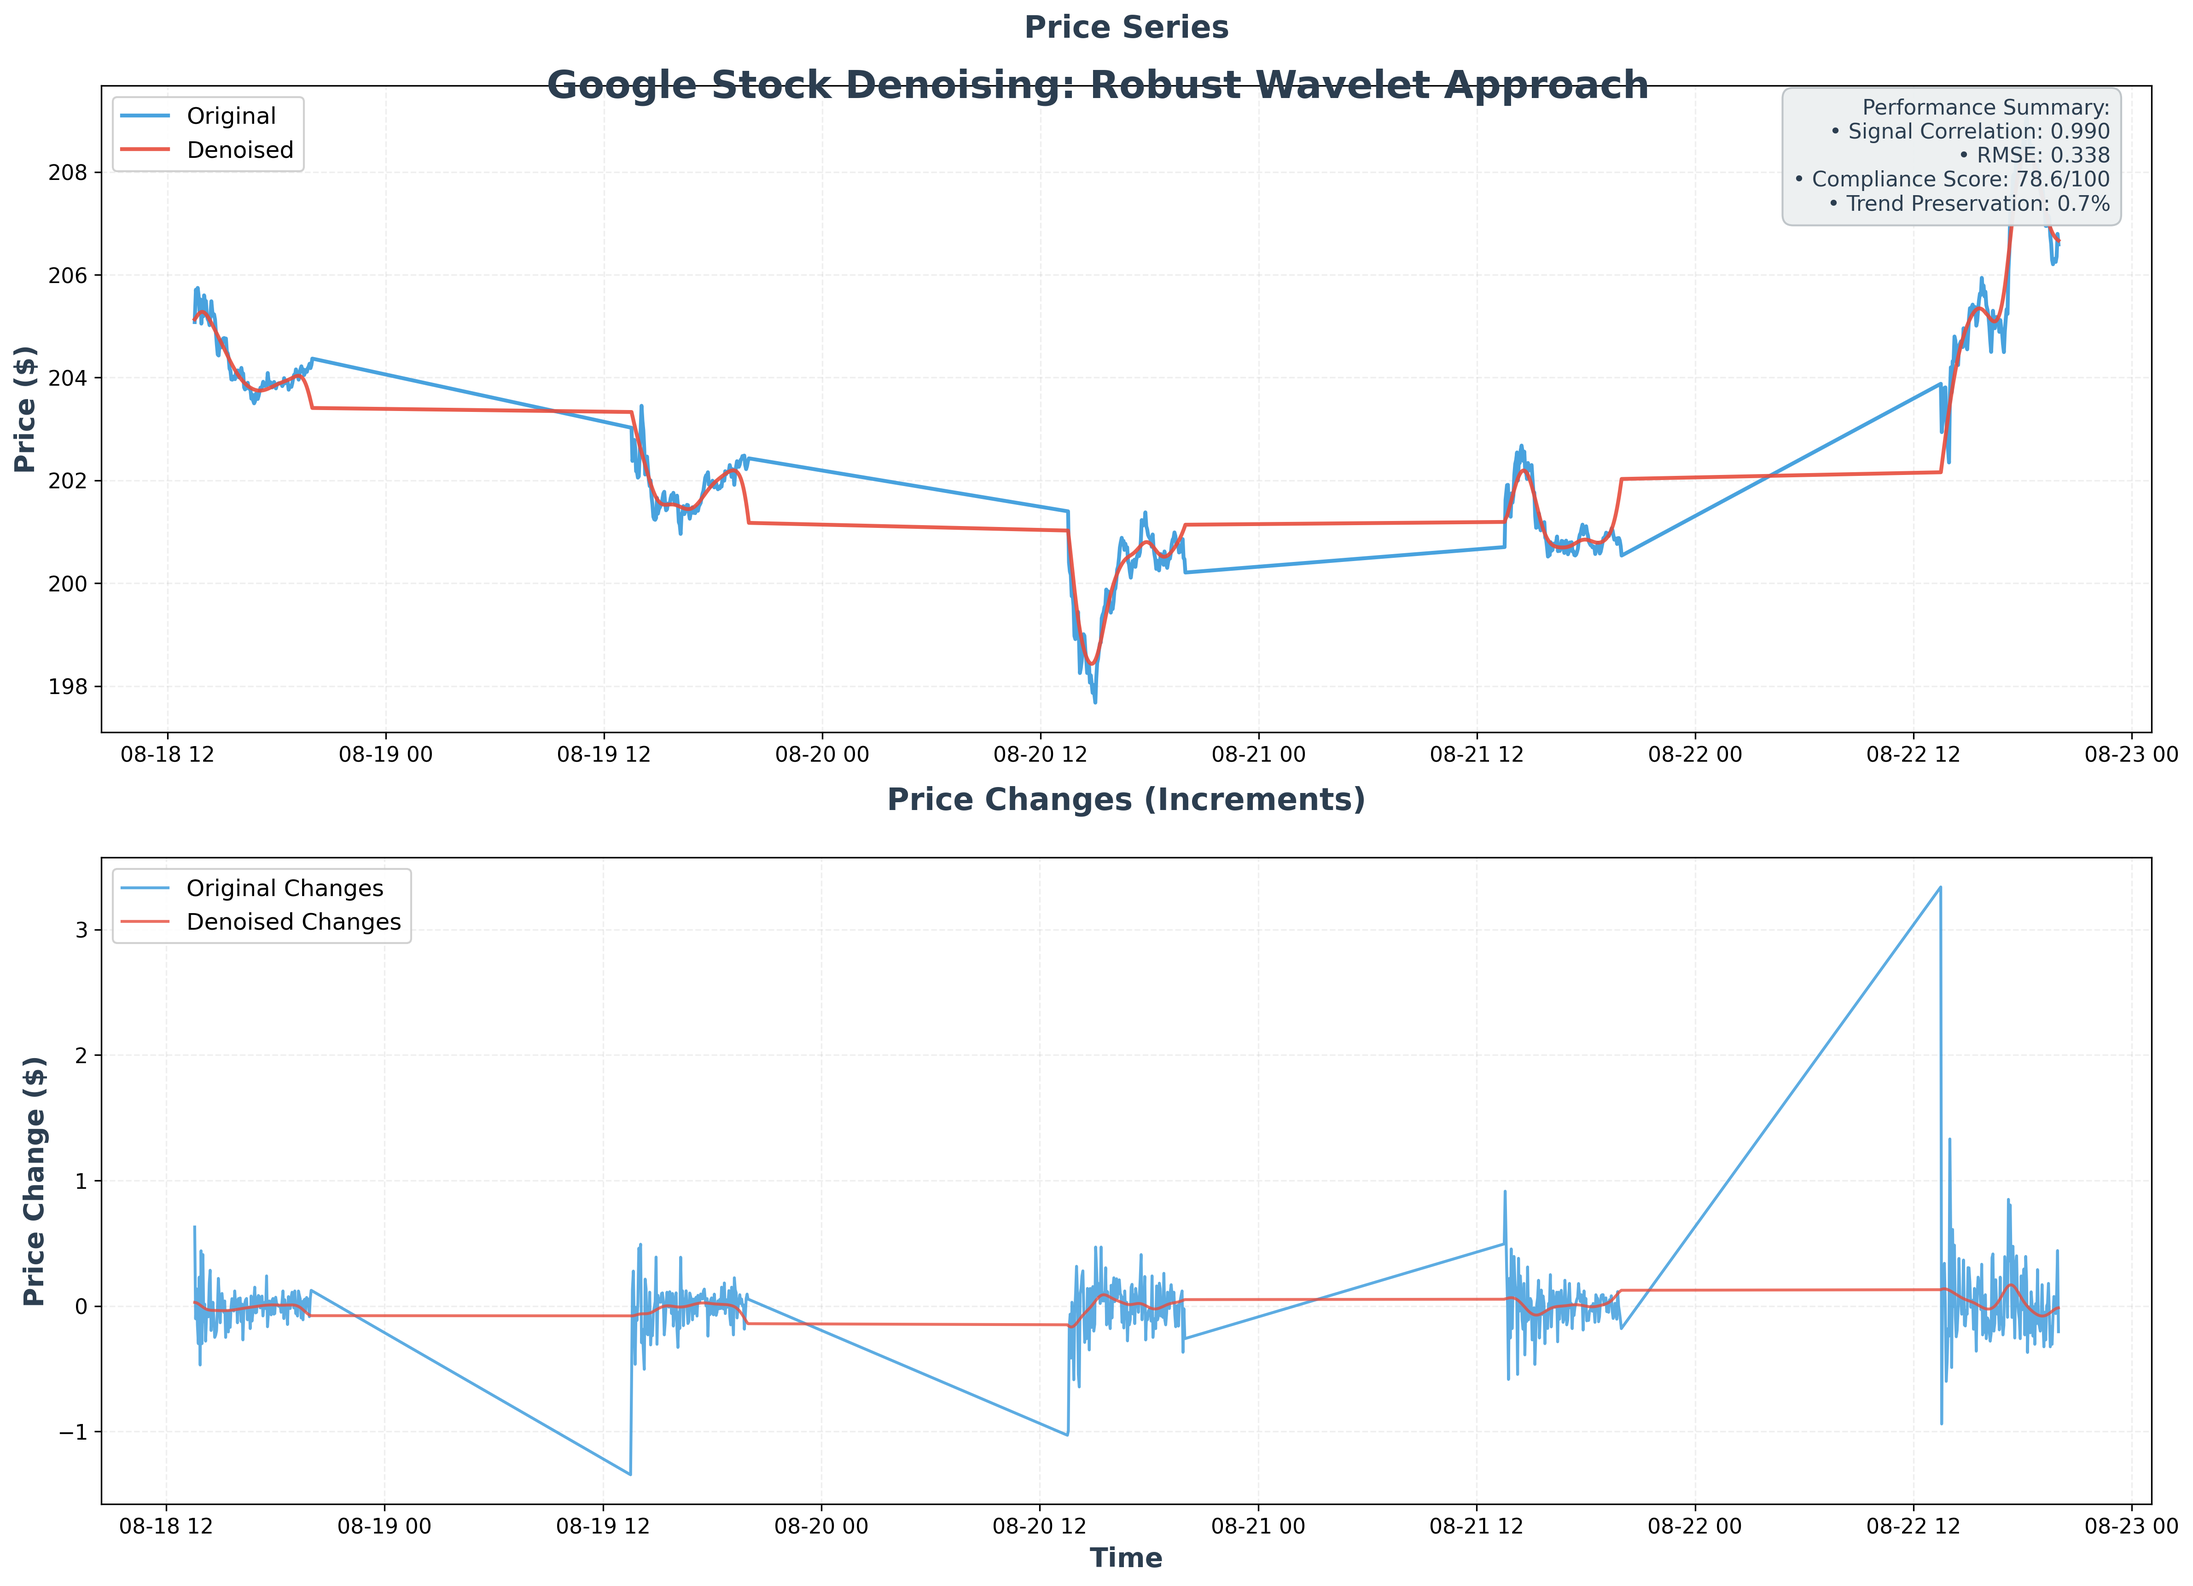
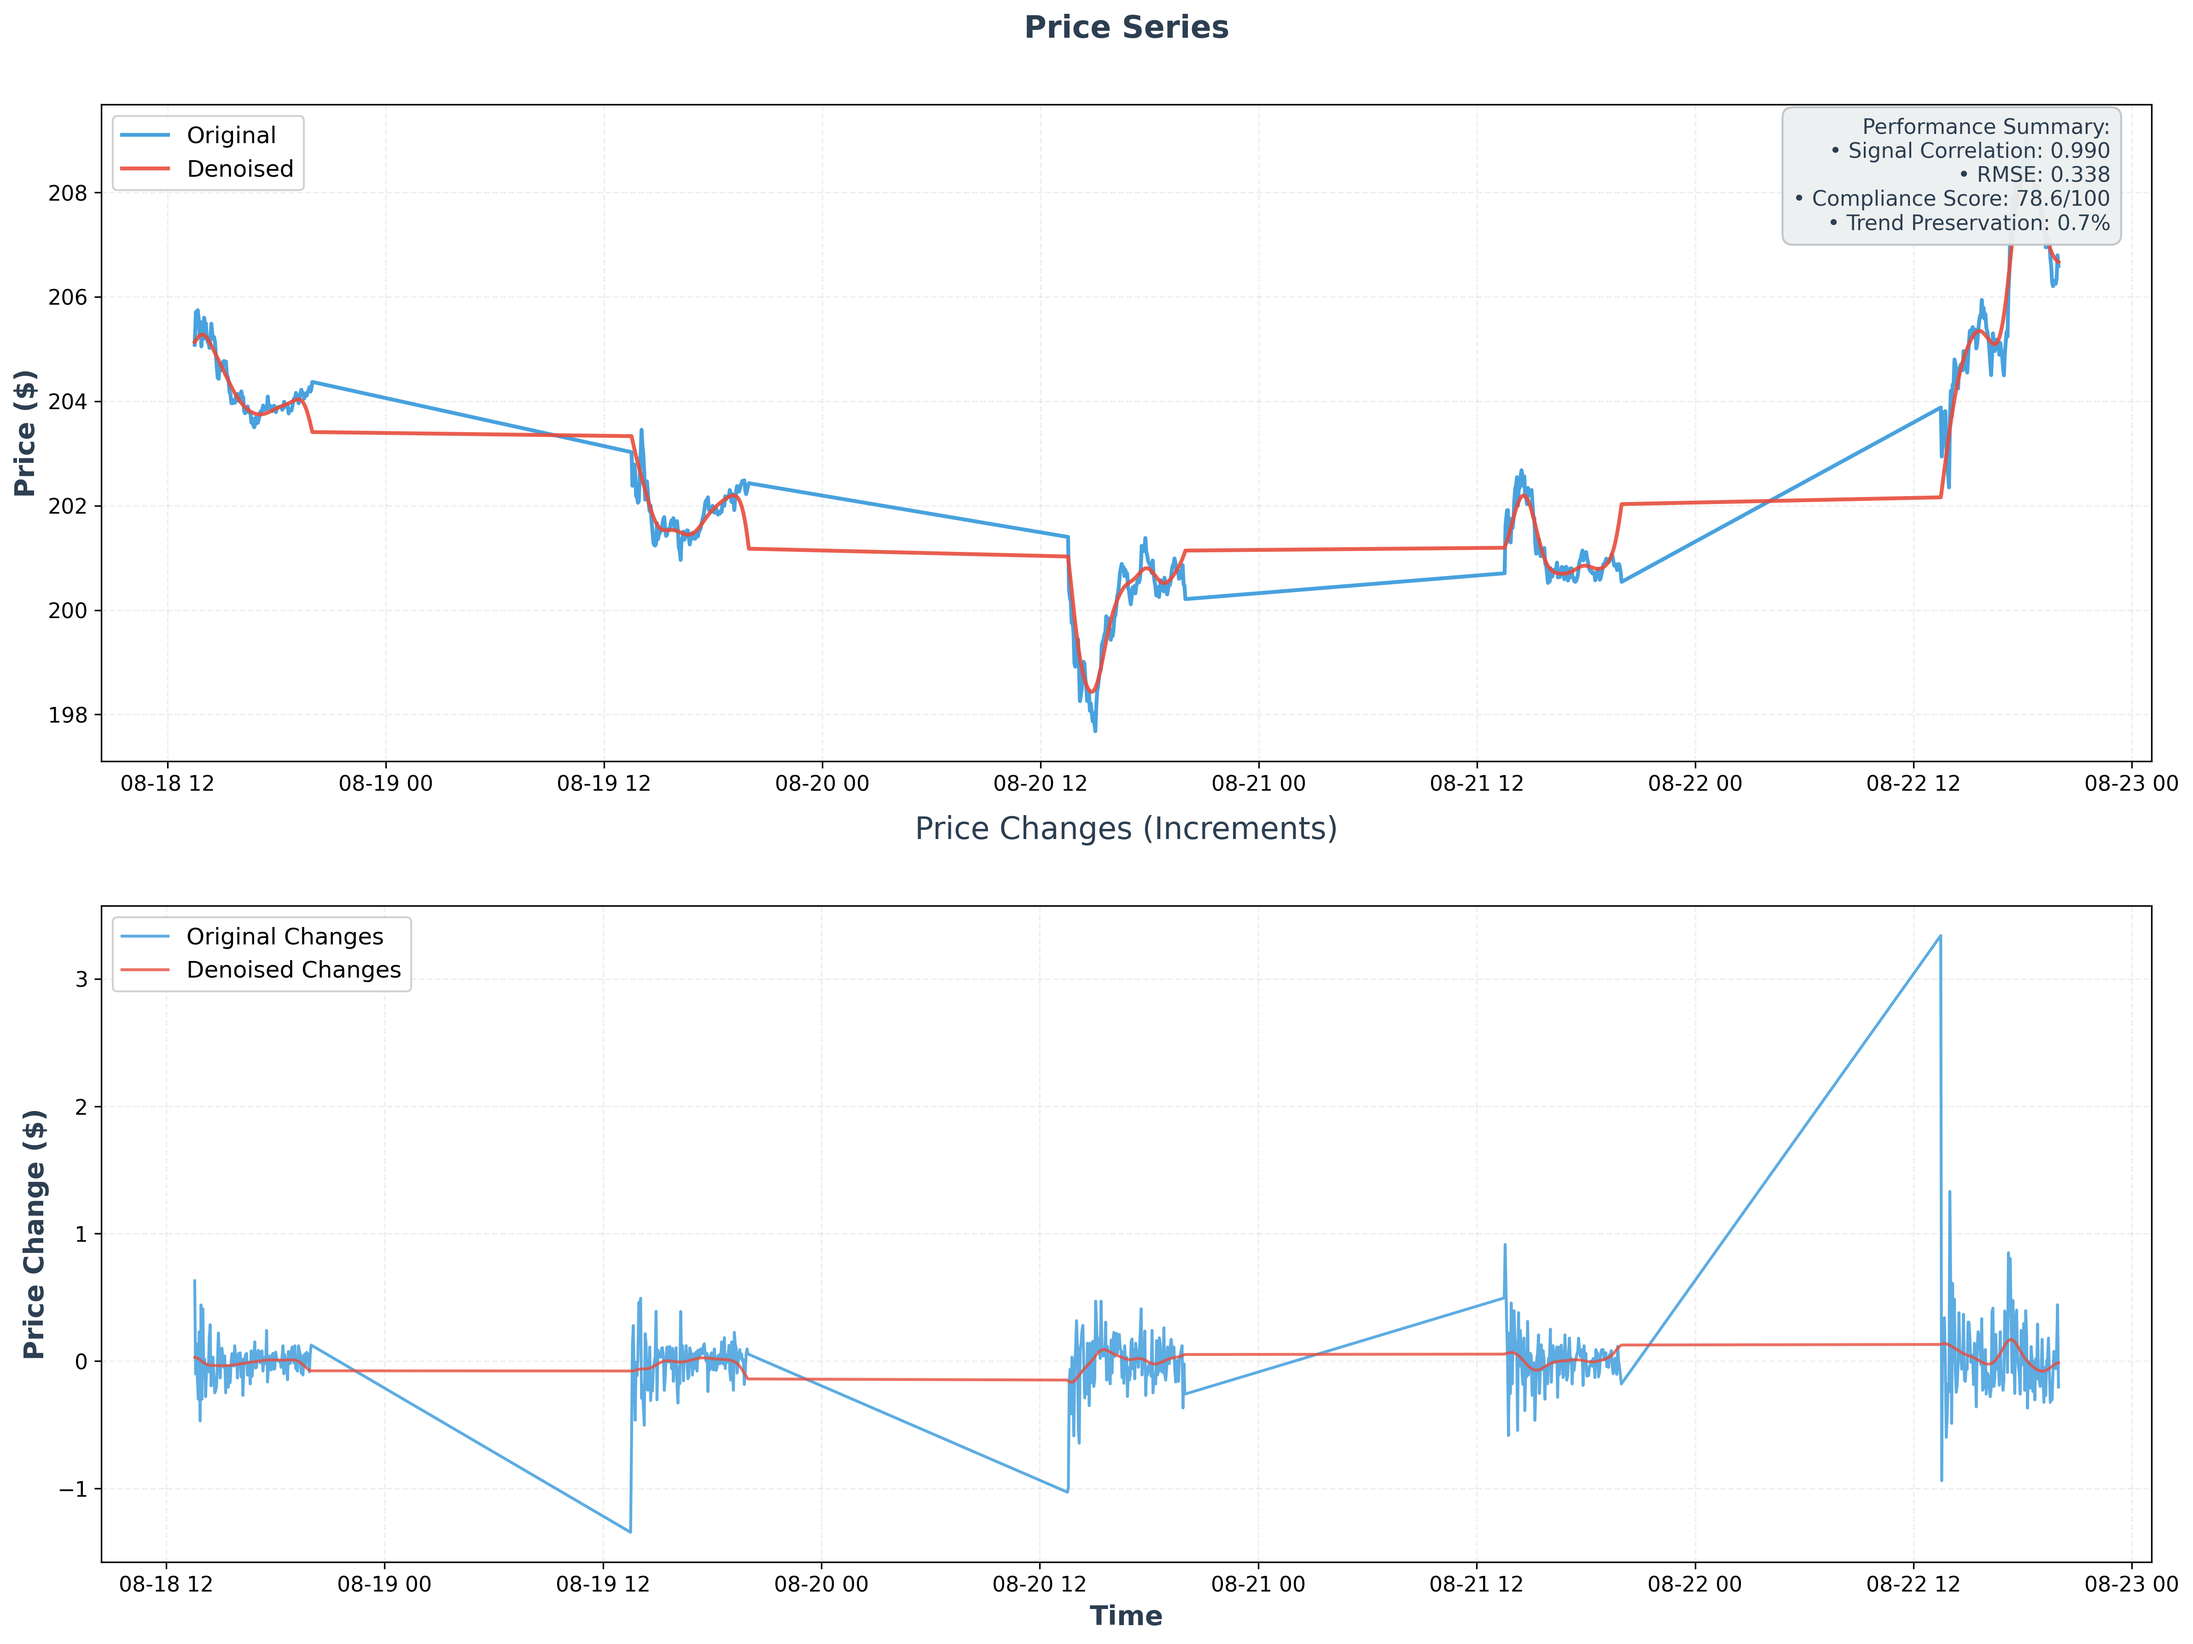
Fix plot title overlap issues - remove long main title and increase subplot title padding

diff --git a/examples/plot_real_data_robust.py b/examples/plot_real_data_robust.py
@@ -129,8 +129,7 @@ def create_robust_plot():
     
     # Create figure with subplots
     fig, axes = plt.subplots(2, 1, figsize=(16, 12))
-    fig.suptitle('Google Stock Denoising: Robust Wavelet Approach', 
-                 fontsize=20, fontweight='bold', y=0.92, color='#2c3e50')
+    # Remove the long main title that was causing overlap
     
     # Top panel: Price series
     ax1 = axes[0]
@@ -139,7 +138,7 @@ def create_robust_plot():
     ax1.plot(plot_timestamps, plot_denoised, label='Denoised', 
              color='#e74c3c', linewidth=2, alpha=0.9)
     ax1.set_title('Price Series', fontsize=16, fontweight='bold', 
-                  color='#2c3e50', pad=25)
+                  color='#2c3e50', pad=35)
     ax1.set_ylabel('Price ($)', fontsize=14, fontweight='bold', color='#2c3e50')
     ax1.legend(fontsize=12, framealpha=0.9, loc='upper left')
     ax1.grid(True, alpha=0.2, linestyle='--')
@@ -154,8 +153,8 @@ def create_robust_plot():
              color='#3498db', linewidth=1.5, alpha=0.8)
     ax2.plot(plot_timestamps[1:], denoised_changes, label='Denoised Changes', 
              color='#e74c3c', linewidth=1.5, alpha=0.8)
-    ax2.set_title('Price Changes (Increments)', fontsize=16, fontweight='bold', 
-                  color='#2c3e50', pad=25)
+    ax2.set_title('Price Changes (Increments)', fontsize=16,
+                  color='#2c3e50', pad=35)
     ax2.set_xlabel('Time', fontsize=14, fontweight='bold', color='#2c3e50')
     ax2.set_ylabel('Price Change ($)', fontsize=14, fontweight='bold', color='#2c3e50')
     ax2.legend(fontsize=12, framealpha=0.9, loc='upper left')

diff --git a/README.md b/README.md
@@ -20,8 +20,8 @@ A **robust financial time series denoiser** with fidelity-first performance metr
 
 ### **Visual Results**
 
-**Google Stock Denoising (Robust Denoiser):**
-![Google Stock Denoising](examples/plots/goog_before_after_robust.png)
+**Robust Denoiser Results:**
+![Robust Denoiser Results](examples/plots/goog_before_after_robust.png)
 
 **Variance Reduction Summary:**
 ![Variance Reduction](examples/plots/variance_reduction_summary.png)
